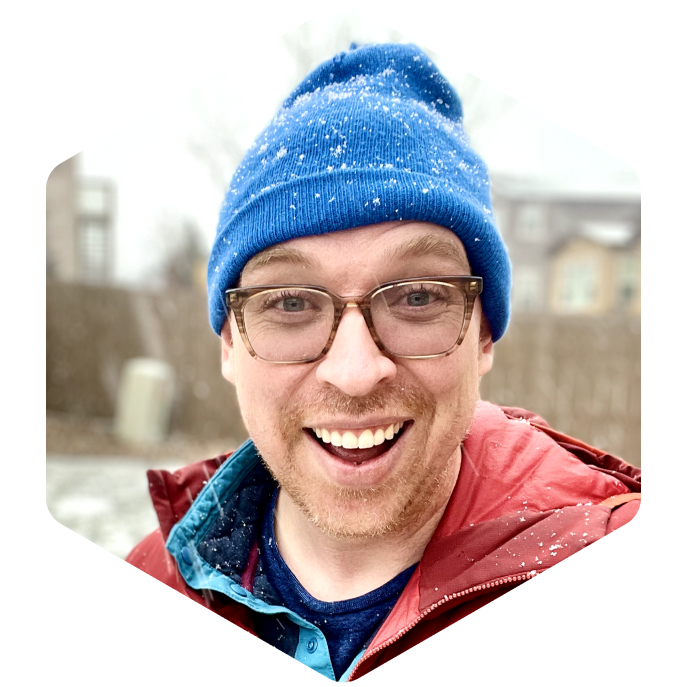
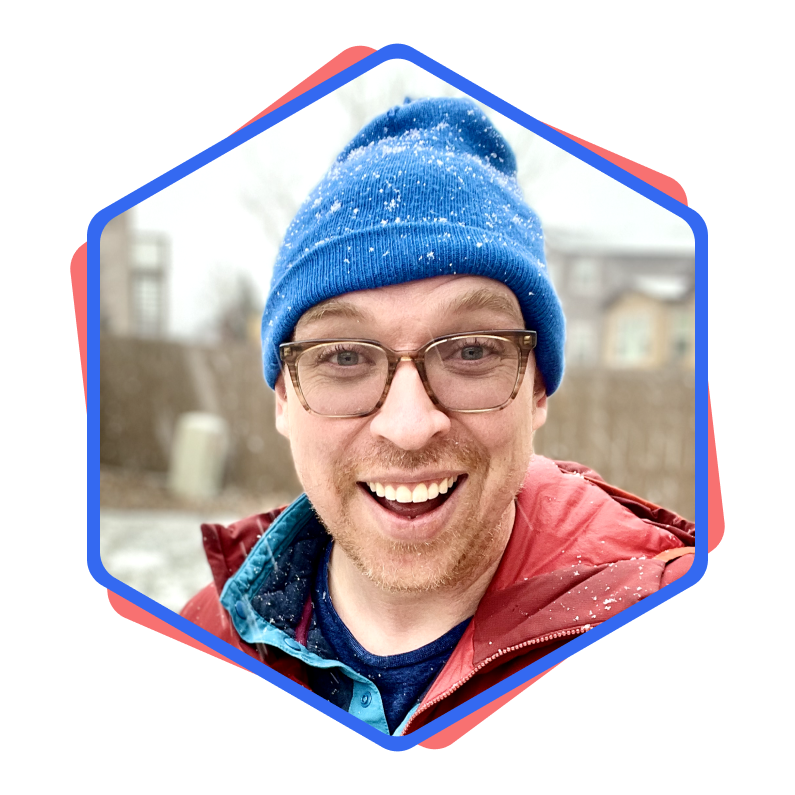
replace hexs with one png

diff --git a/src/views/Home/index.tsx b/src/views/Home/index.tsx
@@ -6,7 +6,6 @@ import { Container } from "~/components/shared/Container";
 import { PageContainer } from "~/components/shared/PageContainer";
 import { SiteFooter } from "~/components/SiteFooter";
 import { SiteHeader } from "~/components/SiteHeader";
-import { Hexagon } from "~/components/svgs/Hexagon";
 import type { AllPosts, PostMeta } from "~/lib/posts/types";
 
 const HomeView = ({ allPostsData }: { allPostsData: AllPosts }) => {
@@ -15,7 +14,7 @@ const HomeView = ({ allPostsData }: { allPostsData: AllPosts }) => {
       <SiteHeader />
       <Container>
         <div className="flex items-center gap-10 flex-col lg:flex-row">
-          <ImageWithHexagons />
+          <Image src={"/img/chase-hex.png"} width={350} height={350} />
           <div className="flex flex-col">
             <p className="text-blue-700 dark:text-blue-400 text-4xl font-bold pb-4">
               Hey, I'm Chase!
@@ -44,24 +43,6 @@ const HomeView = ({ allPostsData }: { allPostsData: AllPosts }) => {
     </PageContainer>
   );
 };
-
-function ImageWithHexagons() {
-  return (
-    <div className="relative shrink-0">
-      <div className="text-blue-400">
-        <div className="relative z-50">
-          <Image src={"/img/chase-hex.png"} width={350} height={350} />
-        </div>
-        <div className="absolute -top-2 -left-2 text-blue-700 dark:text-blue-500 z-30">
-          <Hexagon width={365} height={365} />
-        </div>
-        <div className="absolute -top-2 -left-2 text-red-700 dark:text-red-400 rotate-[-8deg] z-10">
-          <Hexagon width={365} height={365} />
-        </div>
-      </div>
-    </div>
-  );
-}
 
 function Writing({ posts }: { posts: Array<PostMeta> }) {
   return (
